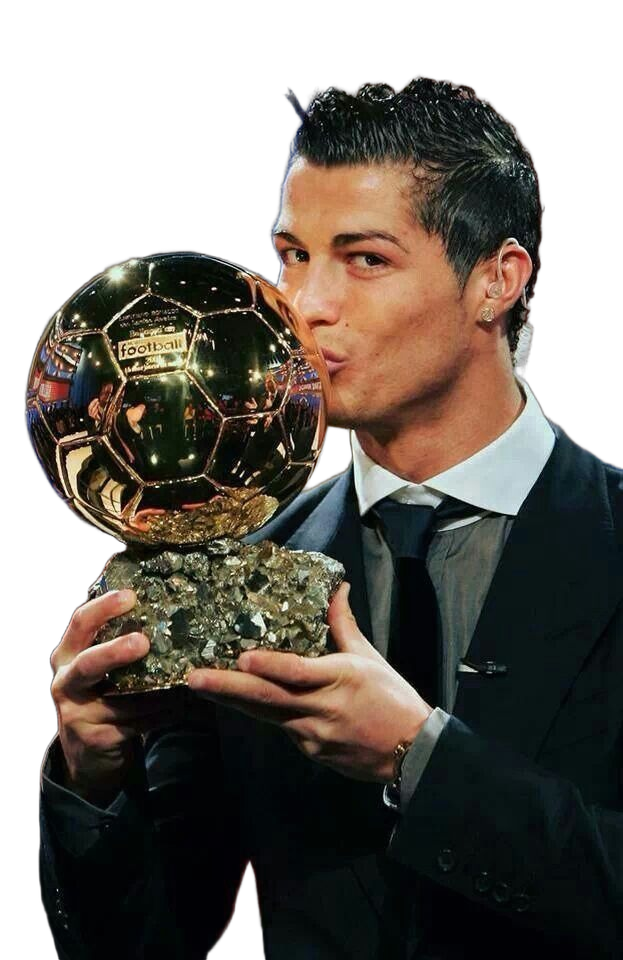
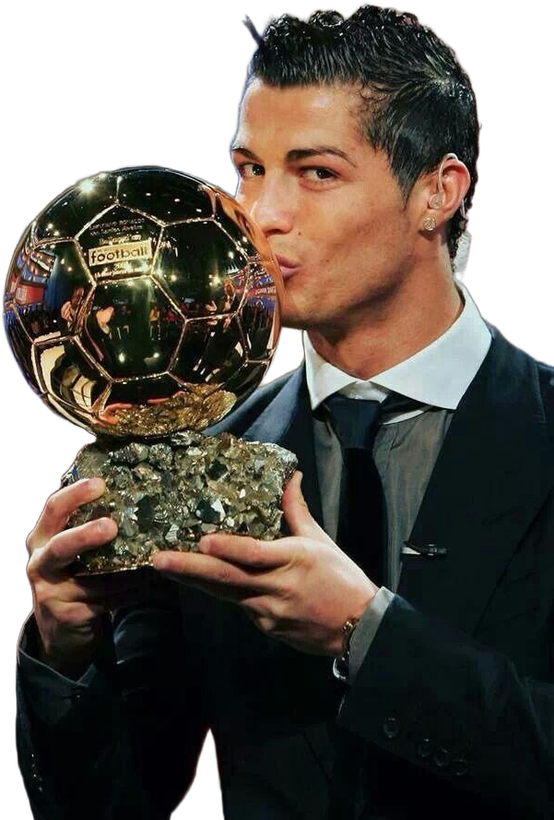
Fix: Balance scale and vertically center Epoch 02 Ballon d'Or cutouts

diff --git a/index.html b/index.html
@@ -267,6 +267,32 @@
       filter: drop-shadow(0 35px 60px rgba(0,0,0,0.95)) drop-shadow(0 0 35px var(--era-rim, #fff)) drop-shadow(0 0 80px var(--era-glow, rgba(255,255,255,0.3)));
     }
 
+    /* EPOCH 02 BALLON D'OR CUTOUTS: BALANCED, SCALED & VERTICALLY CENTERED */
+    .e09m .c-img, .e08r .c-img {
+      top: 50%;
+      bottom: auto;
+      transform: translateY(-50%) translateZ(100px);
+      align-items: center;
+      justify-content: center;
+      height: 480px;
+    }
+    .e09m:hover .c-img, .e08r:hover .c-img {
+      transform: translateY(-50%) translateZ(140px) scale(1.06);
+    }
+    .e09m .c-img {
+      width: 360px;
+      right: -30px;
+    }
+    .e08r .c-img {
+      width: 330px;
+      left: -30px;
+    }
+    .e09m .c-img img, .e08r .c-img img {
+      max-height: 440px;
+      max-width: 100%;
+      object-fit: contain;
+    }
+
     /* Era Accents */
     .e04m { --era-rim: rgba(0,77,152,0.9); --era-glow: rgba(0,77,152,0.4); }
     .e03r { --era-rim: rgba(0,128,80,0.9); --era-glow: rgba(0,128,80,0.4); }
